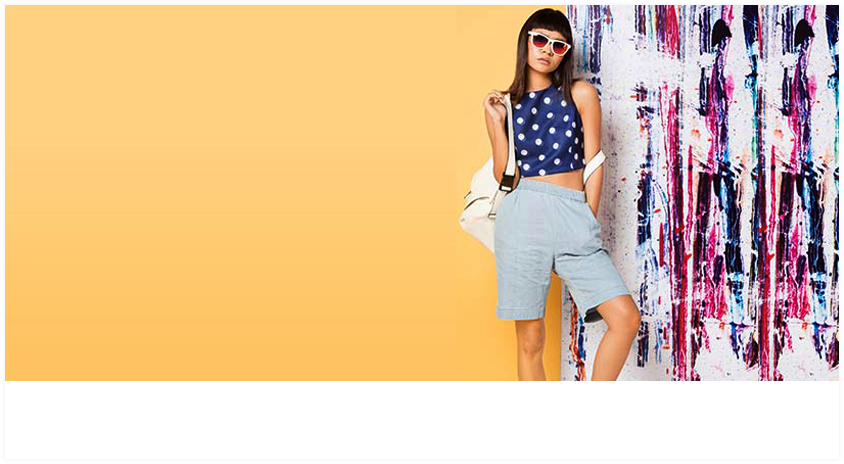
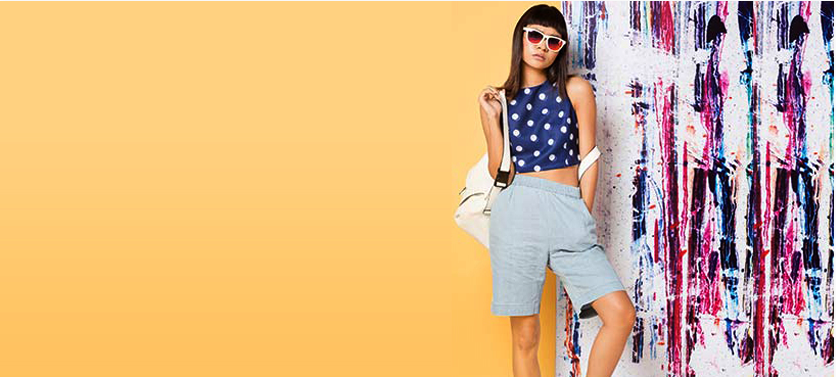
Закончил разметку шапки, начал категории

diff --git a/css/style.css b/css/style.css
@@ -1,10 +1,11 @@
 body {
   background-color: #f3f3f3;
-
+  font-size: 15px;
+  font-family: 'Lato', sans-serif;
 }
 
 .container {
-  width: 1200px;
+  width: 1170px;
   margin: 0 auto;
   padding: 0 20px;
 }
@@ -12,7 +13,241 @@ body {
 .header-page {
   background-color: #222222;
   color: #ffffff;
+  display: flex;
+  flex-direction: row;
+  flex-wrap: wrap;
 }
+
+
+.header-logo {
+  width: 178px;
+  height: 62px;
+  margin-left: 20px;
+}
+
+
+.user-section {
+  margin: -10px 0px 20px auto;
+}
+
+.user-section form {
+  float: left;
+  margin: 0;
+  padding: 0;
+  margin-right: 40px;
+}
+
+.user-section form input[type="text"] {
+  box-sizing: content-box;
+  width: 530px;
+  padding: 5px 5px 10px 25px;
+  vertical-align: top;
+  border: none;
+  border-top-left-radius: 5px;
+  border-bottom-left-radius: 5px;
+}
+
+.user-section button {
+  margin-left: -3px;
+  background-color: #f10e34;
+  border: none;
+  border-top-right-radius: 5px;
+  border-bottom-right-radius: 5px;
+  position: relative;
+  width: 55px;
+  height: 31px;
+  cursor: pointer;
+}
+
+.user-section button:active {
+  box-shadow: inset 2px 2px 10px black;
+}
+
+/*Плавно прячем placeholder*/
+
+input[type="text"]::-webkit-input-placeholder       {opacity: 1; transition: opacity 0.3s ease;}
+input[type="text"]::-moz-placeholder                {opacity: 1; transition: opacity 0.3s ease;}
+input[type="text"]:-moz-placeholder                 {opacity: 1; transition: opacity 0.3s ease;}
+input[type="text"]:-ms-input-placeholder            {opacity: 1; transition: opacity 0.3s ease;}
+input[type="text"]:focus::-webkit-input-placeholder {opacity: 0; transition: opacity 0.3s ease;}
+input[type="text"]:focus::-moz-placeholder          {opacity: 0; transition: opacity 0.3s ease;}
+input[type="text"]:focus:-moz-placeholder           {opacity: 0; transition: opacity 0.3s ease;}
+input[type="text"]:focus:-ms-input-placeholder      {opacity: 0; transition: opacity 0.3s ease;}
+
+.user-section button::before {
+  content: "";
+  position: absolute;
+  width: 14px;
+  height: 14px;
+  background: url("../img/user-section-sprites.png") no-repeat;
+  background-position: -5px -5px;
+  bottom: 8px;
+  left: 20px;
+}
+
+.user-section .basket {
+  float: left;
+  font-size: 0;
+  margin-right: 30px;
+}
+
+.basket .basket-shop {
+  position: relative;
+  background-color: #f10e34;
+  width: 30px;
+  height: 30px;
+  display: inline-block;
+  margin-right: 5px;
+  border-radius: 20px;
+}
+
+.basket .basket-shop:active {
+  box-shadow: inset 1px 1px 10px black;
+}
+
+.basket .total-price {
+  width: 95px;
+  display: inline-block;
+  font-size: 15px;
+}
+
+.user-section .basket-shop::before {
+  content: "";
+  position: absolute;
+  width: 15px;
+  height: 12px;
+  background: url("../img/user-section-sprites.png") no-repeat;
+  background-position: -29px -5px;
+  bottom: 8px;
+  left: 8px;
+}
+
+.navigation {
+  margin: 0;
+  padding: 0 15px;
+  display: flex;
+  font-size: 12px;
+  line-height: 4.167;
+  margin-right: 0;
+  margin-left: auto;
+}
+
+
+.navigation li {
+  vertical-align: top;
+  list-style: none;
+  margin-left: 30px;
+}
+
+.navigation li a {
+  color: white;
+  text-decoration: none;
+}
+
+
+.cathegories {
+  font-size: 15px;
+  text-transform: uppercase;
+  line-height: 3.333;
+  background-color: #f10e34;
+  font-size: 0;
+  color: #ffffff;
+  position: relative;
+}
+
+.cathegories > a {
+  font-size: 14px;
+  display: inline-block;
+  margin-left: 80px;
+  text-decoration: none;
+  color: #ffffff;
+}
+
+.cathegories::before {
+  content: "";
+  position: absolute;
+  width: 20px;
+  height: 20px;
+  background: url("../img/cathegories-sprites.png") no-repeat;
+  background-position: -28px -5px;
+  bottom: 10px;
+  left: 50px;
+}
+
+.cathegory ul {
+  margin: 0;
+  padding: 0;
+  list-style: none;
+  background-color: #ffffff;
+  position: relative;
+}
+
+.cathegory ul li {
+  padding-left: 40px;
+  padding-top: 5px;
+  padding-bottom: 5px;
+  border-top: 1px solid #eaeaea;
+}
+
+/*
+
+.cathegory ul li::before {
+  content: "";
+  position: absolute;
+  width: 14px;
+  height: 14px;
+  background: url("../img/cathegories-sprites.png") no-repeat;
+  background-position: -5px -5px;
+}
+
+Подобные вещи нужно делать иконочным шрифтом
+
+*/
+
+.cathegories ul {
+  margin: 0;
+  padding: 0;
+  display: inline-block;
+  float: right;
+  margin-right: 85px;
+}
+
+.cathegories li {
+  display: inline-block;
+  font-size: 14px;
+  padding: 0 20px;
+}
+
+.cathegory {
+  font-size: 15px;
+  font-weight: bold;
+  text-transform: uppercase;
+  line-height: 3.333;
+  float: left;
+  width: 300px;
+  margin-right: 30px;
+}
+
+.slider {
+  float: left;
+  width: 835px;
+  background: url("../img/slider-1.png") no-repeat;
+  min-height: 380px;
+}
+
+.slider-features .feature-item {
+  font-size: 15px;
+  font-weight: bold;
+  text-transform: uppercase;
+  line-height: 1.2;
+  display: inline-block;
+  width: 215px;
+}
+
+.slider-features {
+  min-height: 80px; /*На время верстки*/
+}
+
 
 .brands {
   min-height: 185px;
@@ -22,9 +257,20 @@ body {
 .footer-page {
   background-color: #222222;
   color: #ffffff;
+  font-size: 14px;
+  font-family: "Myriad Pro";
+  line-height: 1.714;
 }
+
+
 
 .copyright-info {
   background-color: #1f1e1e;
   color: #ffffff;
+}
+
+.clearfix {
+  content: "";
+  display: table;
+  clear: both;
 }

diff --git a/index.html b/index.html
@@ -5,34 +5,40 @@
       <title>TeodorDre - AntiStress</title>
       <link href="css/normalize.css" rel="stylesheet">
       <link href="css/style.css" rel="stylesheet">
+      <link href="https://fonts.googleapis.com/css?family=Lato" rel="stylesheet">
    </head>
    <body>
       <header class="header-page">
          <div class="header-logo">
             <img src="img/logo.png" alt="Логотип Антистресс" width="178" height="62">
          </div>
-         <nav class="user-section">
-            <ul class="navigation">
-               <li>О магазине</li>
-               <li>Доставка</li>
-               <li>Гарантии</li>
-               <li>Оплата</li>
-               <li>Войти</li>
-            </ul>
+
+         <ul class="navigation">
+            <li><a href="#">О магазине</a></li>
+            <li><a href="#">Доставка</a></li>
+            <li><a href="#">Гарантии</a></li>
+            <li><a href="#">Оплата</a></li>
+            <li><a href="#">Войти</a></li>
+         </ul> <!--Добавить разделяющий псевдоэлемент-->
+         <nav class="user-section clearfix">
             <form method="get" action="echo.htmlacademy.ru">
                <input type="text" name="search" placeholder="Поиск по магазину">
-               <button type="submit" class="btn">Поиск</button>
+               <button type="submit" class="btn"></button>
             </form>
             <div class="basket">
+              <a href="#" class="basket-shop"></a>
+            <div class="total-price">
                <b>Total</b>
-               <span class="price">600$</span>
+               <br>
+               <span class="price">13232434 $</span>
+            </div>
             </div>
          </nav>
       </header>
       <main>
-         <nav class="cathergories">
+         <nav class="cathegories">
+           <a href="#">Категории</a>
             <ul>
-               <li>Категории</li>
                <li>Clothing</li>
                <li>Electronic</li>
                <li>Health</li>
@@ -41,7 +47,7 @@
             </ul>
          </nav>
          <div class="cathegories-slider">
-            <div class="container">
+            <div class="container clearfix">
                <div class="cathegory">
                   <ul>
                      <li>Clothes</li>
@@ -55,28 +61,27 @@
                </div>
                <div class="slider">
                   <div class="slider-img">
-                     <img src="img/slider-1.png" alt="Слайдер-1" width="844" height=464>
                   </div>
                   <div class="slider-desc">
                      <h2>Collection 2016</h2>
                      <p>Save 50% for first purchase</p>
                      <a href="#" class="slider-btn">SHOP NOW</a>
                   </div>
-                  <section class="slider-features">
-                     <div class="feature-item">
-                        <p>Оригинальный товар, и проверенное качество!</p>
-                        <b>Убедитесь в этом сами</b>
-                     </div>
-                     <div class="feature-item">
-                        <p>Хватит грызть ногти и быть на поводу у стресса</p>
-                        <b>Спокойствие для себя и своих друзей</b>
-                     </div>
-                     <div class="feature-item">
-                        <p>Нам можно доверять. Никакой предоплаты.</p>
-                        <b>Понравилось - купили. Все просто.</b>
-                     </div>
-                  </section>
                </div>
+               <section class="slider-features">
+                  <div class="feature-item">
+                     <p>Оригинальный товар, и проверенное качество!</p>
+                     <b>Убедитесь в этом сами</b>
+                  </div>
+                  <div class="feature-item">
+                     <p>Хватит грызть ногти и быть на поводу у стресса</p>
+                     <b>Спокойствие для себя и своих друзей</b>
+                  </div>
+                  <div class="feature-item">
+                     <p>Нам можно доверять. Никакой предоплаты.</p>
+                     <b>Понравилось - купили. Все просто.</b>
+                  </div>
+               </section>
             </div>
          </div>
          <div class="deals-catalog">
